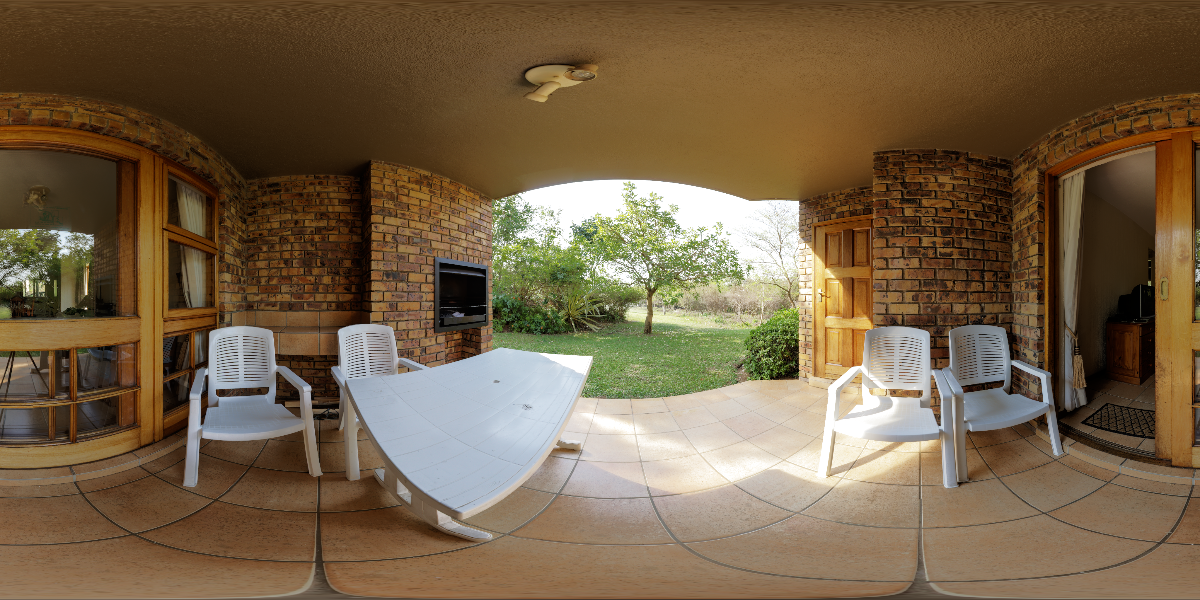
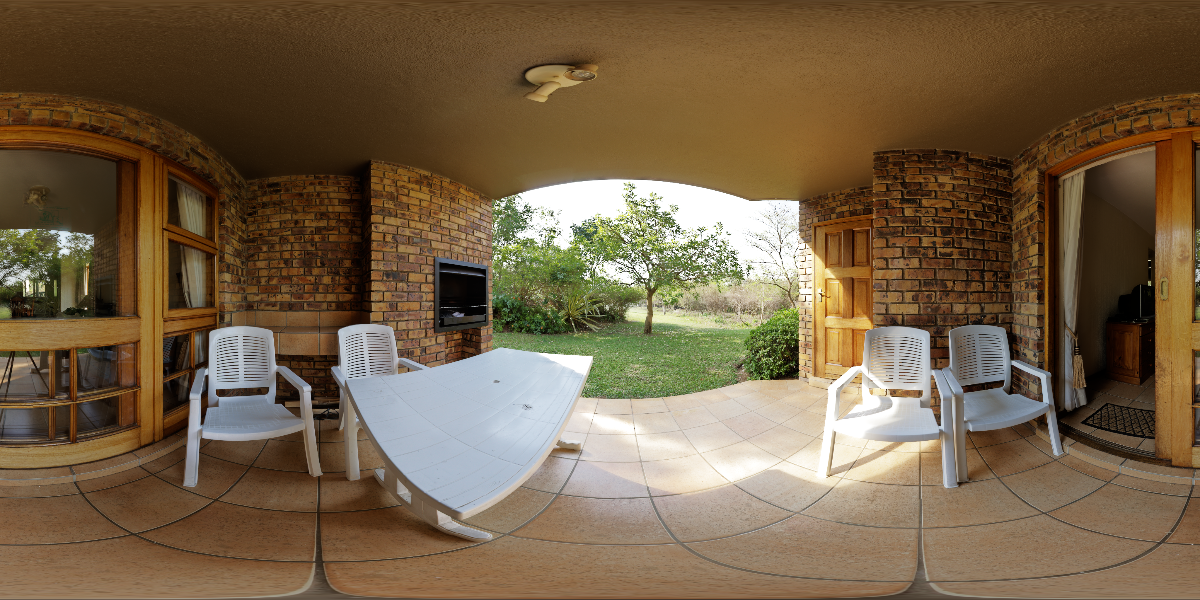
support local regression upsampler.

Changed region(s): [[0.4933, 0.33, 0.6167, 0.48], [0.4317, 0.33, 0.4625, 0.39], [0.6475, 0.42, 0.6783, 0.45]]

diff --git a/tone_mapper.py b/tone_mapper.py
@@ -37,10 +37,13 @@ def create_hdr_texture(device: spy.Device, rgba: np.ndarray) -> spy.Texture:
 
 
 class ToneMapper:
-    def __init__(self, device: spy.Device, max_levels: int = 16):
+    def __init__(self, device: spy.Device, max_levels: int = 16, fusion_scale: int = 4):
         self.device = device
         if max_levels < 1:
             raise ValueError("max_levels must be positive")
+        if fusion_scale not in (1, 4):
+            raise ValueError("fusion_scale must be 1 or 4")
+        self.fusion_scale = fusion_scale
         self.max_levels = max_levels
         self.sampler = device.create_sampler(min_filter=spy.TextureFilteringMode.linear,
                                              mag_filter=spy.TextureFilteringMode.linear,
@@ -57,14 +60,19 @@ class ToneMapper:
         weights = self.device.create_compute_kernel(session.load_program("pyramid.slang", ["setup_weights"]))
         reconstruct = self.device.create_compute_kernel(session.load_program("fusion.slang", ["reconstruct"]))
         convert = self.device.create_compute_kernel(session.load_program("fusion.slang", ["convert_exposure"]))
+        guided_kernels = {name: self.device.create_compute_kernel(session.load_program("guided.slang", [name]))
+                          for name in ("reduce_source", "fit_coefficients", "average_coefficients", "apply_exposure")}
         lut = ToneLut(self.device, session=session)
         self.lut = lut
+        self.guided_kernels = guided_kernels
         self.session, self.kernel = session, kernel
         self.downsample_kernel, self.weight_kernel = downsample, weights
         self.reconstruction_kernel, self.convert_kernel = reconstruct, convert
         self.reconstructed = self.local_exposure = self.final_color = None
         self._result_key = self._weight_key = None
         self.base_color = self.luminance_pyramid = self.weight_pyramid = None
+        self._resource_key = self._reduced_source_key = None
+        self.work_source = self.low_exposure = self.coefficients = self.averaged_coefficients = None
 
     def create_texture(self, width, height, format=spy.Format.rgba32_float, levels=1):
         return self.device.create_texture(
@@ -83,19 +91,41 @@ class ToneMapper:
     def prepare_weights(self, encoder, source, exposure_ev, highlight_ev, shadow_ev, sigma=0.2):
         if not np.isfinite(sigma) or sigma <= 0:
             raise ValueError("Weight sigma must be finite and positive")
-        key = (source, exposure_ev, highlight_ev, shadow_ev, sigma)
+        key = (source, exposure_ev, highlight_ev, shadow_ev, sigma, self.fusion_scale)
         if key == self._weight_key:
             return
-        if self.base_color is None or (self.base_color.width, self.base_color.height) != (source.width, source.height):
-            levels = fusion_mip_count(source.width, source.height, self.max_levels)
+        if self.fusion_scale not in (1, 4):
+            raise ValueError("fusion_scale must be 1 or 4")
+        resource_key = (source.width, source.height, self.fusion_scale)
+        if resource_key != self._resource_key:
+            width = (source.width + self.fusion_scale - 1) // self.fusion_scale
+            height = (source.height + self.fusion_scale - 1) // self.fusion_scale
+            levels = fusion_mip_count(width, height, self.max_levels)
             self.base_color = self.create_texture(source.width, source.height)
-            self.luminance_pyramid = self.create_texture(source.width, source.height, levels=levels)
-            self.weight_pyramid = self.create_texture(source.width, source.height, levels=levels)
+            self.final_color = self.create_texture(source.width, source.height)
+            self.local_exposure = self.create_texture(source.width, source.height, spy.Format.r32_float)
+            self.luminance_pyramid = self.create_texture(width, height, levels=levels)
+            self.weight_pyramid = self.create_texture(width, height, levels=levels)
+            self.reconstructed = self.create_texture(width, height, spy.Format.r32_float, levels=levels)
+            self.low_exposure = self.create_texture(width, height, spy.Format.r32_float)
+            self.coefficients = self.create_texture(width, height, spy.Format.rg32_float)
+            self.averaged_coefficients = self.create_texture(width, height, spy.Format.rg32_float)
+            self.work_source = self.create_texture(width, height) if self.fusion_scale == 4 else source
+            self._resource_key = resource_key
+            self._reduced_source_key = self._result_key = None
+        if self.fusion_scale == 1:
+            self.work_source = source
+        elif self._reduced_source_key != source:
+            self.guided_kernels["reduce_source"].dispatch(
+                thread_count=[self.work_source.width, self.work_source.height, 1],
+                vars={"fullSource": source, "reducedOutput": self.work_source, "linearSampler": self.sampler},
+                command_encoder=encoder)
+            self._reduced_source_key = source
+        work = self.work_source
         self.weight_kernel.dispatch(
-            thread_count=[source.width, source.height, 1],
-            vars={**self.lut.bindings(), "hdrSource": source, "globalEV": exposure_ev,
+            thread_count=[work.width, work.height, 1],
+            vars={**self.lut.bindings(), "hdrSource": work, "globalEV": exposure_ev,
                   "highlightEV": highlight_ev, "shadowEV": shadow_ev,
-                  "baseOutput": self.base_color,
                   "luminanceOutput": self.luminance_pyramid.create_view(mip=0, mip_count=1),
                   "weightOutput": self.weight_pyramid.create_view(mip=0, mip_count=1), "sigma": sigma},
             command_encoder=encoder,
@@ -107,28 +137,39 @@ class ToneMapper:
     def prepare_result(self, encoder, hdr_source, exposure_ev):
         if self._result_key == self._weight_key:
             return
-        if self.reconstructed is None or (self.reconstructed.width, self.reconstructed.height) != (hdr_source.width, hdr_source.height):
-            self.reconstructed = self.create_texture(
-                hdr_source.width, hdr_source.height, spy.Format.r32_float,
-                levels=self.luminance_pyramid.mip_count)
-            self.local_exposure = self.create_texture(hdr_source.width, hdr_source.height, spy.Format.r32_float)
-            self.final_color = self.create_texture(hdr_source.width, hdr_source.height)
+        work = self.work_source
         last = self.reconstructed.mip_count - 1
         for mip in range(last, -1, -1):
             # Bind an independent SRV for the base case (branch doesn't read it).
-            previous = self.local_exposure if mip == last else self.reconstructed.create_view(mip=mip+1, mip_count=1)
+            previous = self.low_exposure if mip == last else self.reconstructed.create_view(mip=mip+1, mip_count=1)
             self.reconstruction_kernel.dispatch(
-                thread_count=[max(1, hdr_source.width >> mip), max(1, hdr_source.height >> mip), 1],
+                thread_count=[max(1, work.width >> mip), max(1, work.height >> mip), 1],
                 vars={"fineLuminance": self.luminance_pyramid.create_view(mip=mip, mip_count=1),
                       "coarseLuminance": self.luminance_pyramid.create_view(mip=min(mip+1, last), mip_count=1),
                       "layerWeights": self.weight_pyramid.create_view(mip=mip, mip_count=1),
                       "previousResult": previous, "linearSampler": self.sampler, "isCoarsest": mip == last,
                       "reconstructionOutput": self.reconstructed.create_view(mip=mip, mip_count=1)},
                 command_encoder=encoder)
-        self.convert_kernel.dispatch(thread_count=[hdr_source.width, hdr_source.height, 1],
-            vars={**self.lut.bindings(), "hdrSource": hdr_source, "fusedLightness": self.reconstructed,
-                  "globalEV": exposure_ev, "exposureOutput": self.local_exposure, "colorOutput": self.final_color},
+        self.convert_kernel.dispatch(thread_count=[work.width, work.height, 1],
+            vars={**self.lut.bindings(), "hdrSource": work, "fusedLightness": self.reconstructed,
+                  "globalEV": exposure_ev, "exposureOutput": self.low_exposure},
             command_encoder=encoder)
+        if self.fusion_scale == 4:
+            self.guided_kernels["fit_coefficients"].dispatch(
+                thread_count=[work.width, work.height, 1],
+                vars={"reducedSource": work, "lowExposure": self.low_exposure,
+                      "coefficientOutput": self.coefficients}, command_encoder=encoder)
+            self.guided_kernels["average_coefficients"].dispatch(
+                thread_count=[work.width, work.height, 1],
+                vars={"coefficients": self.coefficients, "averagedOutput": self.averaged_coefficients},
+                command_encoder=encoder)
+        self.guided_kernels["apply_exposure"].dispatch(
+            thread_count=[hdr_source.width, hdr_source.height, 1],
+            vars={"fullSource": hdr_source, "lowExposure": self.low_exposure,
+                  "averagedCoefficients": self.averaged_coefficients, "linearSampler": self.sampler,
+                  "globalEV": exposure_ev, "guided": self.fusion_scale == 4,
+                  "fullExposureOutput": self.local_exposure,
+                  "baseOutput": self.base_color, "colorOutput": self.final_color}, command_encoder=encoder)
         self._result_key = self._weight_key
 
     def create_output(self, width: int, height: int) -> spy.Texture:

diff --git a/test_guided.py b/test_guided.py
@@ -1,0 +1,110 @@
+"""Quarter-resolution Fusion and fast guided upsampling regression tests."""
+import unittest
+import numpy as np
+import slangpy as spy
+
+from tone_mapper import ToneMapper, create_hdr_texture
+from test_pyramid import sample_bilinear, aces
+
+LUMA = np.array([.2126, .7152, .0722])
+
+
+def box5(image):
+    padded = np.pad(image, ((2,2), (2,2)), mode='edge')
+    h,w = image.shape
+    return sum(padded[y:y+h,x:x+w] for y in range(5) for x in range(5))/25
+
+
+class GuidedTests(unittest.TestCase):
+    @classmethod
+    def setUpClass(cls):
+        cls.device = spy.Device(enable_hot_reload=False)
+        cls.mapper = ToneMapper(cls.device)
+
+    def render(self, rgba, **kwargs):
+        source = create_hdr_texture(self.device, rgba)
+        output = self.mapper.create_output(source.width, source.height)
+        encoder = self.device.create_command_encoder()
+        self.mapper.execute(encoder, source, output, 0, **kwargs)
+        self.device.submit_command_buffer(encoder.finish())
+        return source
+
+    def test_odd_tiny_sizes_zero_adjustment_and_switching(self):
+        rng = np.random.default_rng(23)
+        self.assertEqual(self.mapper.fusion_scale, 4)
+        for h,w in [(17,31), (1,9), (1,1)]:
+            rgba = rng.random((h,w,4), dtype=np.float32)*2
+            rgba[0,0,:3] = 0
+            self.render(rgba, highlight_ev=0, shadow_ev=0)
+            self.assertEqual((self.mapper.work_source.width, self.mapper.work_source.height), ((w+3)//4,(h+3)//4))
+            self.assertEqual(self.mapper.local_exposure.to_numpy().shape, (h,w))
+            np.testing.assert_allclose(self.mapper.local_exposure.to_numpy(), 1, atol=2e-6)
+            np.testing.assert_allclose(self.mapper.final_color.to_numpy()[...,:3], aces(rgba[...,:3]), atol=2e-6)
+        rgba = rng.random((16,32,4), dtype=np.float32)
+        for scale in [1,4,1,4]:
+            self.mapper.fusion_scale = scale
+            self.render(rgba, highlight_ev=0, shadow_ev=0)
+            self.assertEqual(self.mapper.work_source.width, 32//scale)
+            np.testing.assert_allclose(self.mapper.local_exposure.to_numpy(), 1, atol=2e-6)
+
+    def test_reduction_and_guided_coefficients_match_cpu(self):
+        rng = np.random.default_rng(19)
+        rgba = np.exp2(rng.uniform(-6,2,(32,48,4))).astype(np.float32)
+        self.render(rgba)
+        low = self.mapper.work_source.to_numpy()
+        expected_rgb = rgba[...,:3].reshape(8,4,12,4,3).mean(axis=(1,3))
+        full_guide = np.log2(np.maximum(rgba[...,:3]@LUMA,1e-6))
+        expected_guide = full_guide.reshape(8,4,12,4).mean(axis=(1,3))
+        np.testing.assert_allclose(low[...,:3], expected_rgb, atol=2e-6)
+        np.testing.assert_allclose(low[...,3], expected_guide, atol=2e-6)
+        g = low[...,3].astype(float)
+        e = np.log2(self.mapper.low_exposure.to_numpy().astype(float))
+        mean_g, mean_e = box5(g), box5(e)
+        a = (box5(g*e)-mean_g*mean_e)/(np.maximum(box5(g*g)-mean_g**2,0)+.04)
+        b = mean_e-a*mean_g
+        np.testing.assert_allclose(self.mapper.coefficients.to_numpy(), np.stack([a,b],axis=-1), atol=1e-5)
+        expected_ab = np.stack([box5(a),box5(b)],axis=-1)
+        np.testing.assert_allclose(self.mapper.averaged_coefficients.to_numpy(), expected_ab, atol=1e-5)
+        yy,xx = np.mgrid[:32,:48]
+        ab = sample_bilinear(expected_ab,(xx+.5)/48,(yy+.5)/32)
+        expected_ev = np.clip(ab[...,0]*full_guide+ab[...,1],-12,12)
+        actual_multiplier = self.mapper.local_exposure.to_numpy()
+        np.testing.assert_allclose(np.log2(actual_multiplier), expected_ev, atol=.003)
+        np.testing.assert_allclose(self.mapper.final_color.to_numpy()[...,:3],
+                                   aces(rgba[...,:3]*actual_multiplier[...,None]), atol=2e-6)
+
+    def test_guidance_reduces_exposure_bleed_across_step(self):
+        # Prescribe an exposure field to isolate upsampling from Fusion itself.
+        m = self.mapper
+        h,w = 32,64
+        rgba = np.ones((h,w,4),np.float32)
+        rgba[:,:w//2,:3] = 2**-4
+        rgba[:,w//2:,:3] = 2**4
+        source = self.render(rgba)
+        ev = np.ones((h//4,w//4),np.float32)
+        ev[:,w//8:] = -1
+        low_exp = self.device.create_texture(width=w//4,height=h//4,format=spy.Format.r32_float,
+            usage=spy.TextureUsage.shader_resource, data=np.exp2(ev))
+        encoder = self.device.create_command_encoder()
+        m.guided_kernels['fit_coefficients'].dispatch(thread_count=[w//4,h//4,1],
+            vars={'reducedSource':m.work_source,'lowExposure':low_exp,'coefficientOutput':m.coefficients},command_encoder=encoder)
+        m.guided_kernels['average_coefficients'].dispatch(thread_count=[w//4,h//4,1],
+            vars={'coefficients':m.coefficients,'averagedOutput':m.averaged_coefficients},command_encoder=encoder)
+        m.guided_kernels['apply_exposure'].dispatch(thread_count=[w,h,1],
+            vars={'fullSource':source,'lowExposure':low_exp,'averagedCoefficients':m.averaged_coefficients,
+                  'linearSampler':m.sampler,'globalEV':0.,'guided':True,
+                  'fullExposureOutput':m.local_exposure,'baseOutput':m.base_color,'colorOutput':m.final_color},command_encoder=encoder)
+        self.device.submit_command_buffer(encoder.finish())
+        actual = np.log2(m.local_exposure.to_numpy())
+        yy,xx = np.mgrid[:h,:w]
+        plain = sample_bilinear(ev[...,None],(xx+.5)/w,(yy+.5)/h)[...,0]
+        target = np.ones((h,w));target[:,w//2:] = -1
+        band = np.s_[:,w//2-2:w//2+2]
+        guided_error = np.abs(actual-target)[band].mean()
+        plain_error = np.abs(plain-target)[band].mean()
+        self.assertLess(guided_error,.15)
+        self.assertLess(guided_error,plain_error*.3)
+
+
+if __name__ == '__main__':
+    unittest.main()

diff --git a/main.py b/main.py
@@ -27,7 +27,7 @@ class Viewer:
     def __init__(self, args):
         self.args = args
         self.device = spy.Device(type=getattr(spy.DeviceType, args.device), enable_hot_reload=False)
-        self.mapper = ToneMapper(self.device, args.levels)
+        self.mapper = ToneMapper(self.device, args.levels, args.fusion_scale)
         self.assets = sorted((ROOT / "Assets").glob("*.exr"))
         if args.image not in self.assets:
             self.assets.insert(0, args.image)
@@ -62,11 +62,14 @@ class Viewer:
         self.surface.configure(width=self.window.width, height=self.window.height,
                                format=spy.Format.rgba8_unorm, vsync=True)
         self.ui = spy.ui.Context(self.device)
-        panel = spy.ui.Window(self.ui.screen, "Local Exposure", spy.float2(12, 12), spy.float2(480, 385))
+        panel = spy.ui.Window(self.ui.screen, "Local Exposure", spy.float2(12, 12), spy.float2(480, 420))
         self.label = spy.ui.Text(panel, self.assets[self.index].name)
         spy.ui.ComboBox(panel, "View", items=VIEW_LABELS,
                         value=self.view_mode, callback=self.set_view)
         self.view_help = spy.ui.Text(panel, VIEW_HELP[self.view_mode])
+        spy.ui.ComboBox(panel, "Fusion resolution", items=["1/4 x 1/4 (guided)", "Full resolution reference"],
+                        value=0 if self.mapper.fusion_scale == 4 else 1,
+                        callback=lambda value: setattr(self.mapper, "fusion_scale", 4 if value == 0 else 1))
         self.slider = spy.ui.SliderFloat(panel, "Exposure (EV)", min=-16, max=16,
                                         value=self.exposure, callback=self.set_exposure)
         spy.ui.SliderFloat(panel, "Highlight Contrast Scale", min=0, max=1,
@@ -195,6 +198,8 @@ def parse_args(argv=None):
     parser.add_argument("--image", type=Path, default=ROOT / "Assets" / "veranda_4k.exr")
     parser.add_argument("--exposure", type=float, default=0.0, help="Exposure compensation in EV")
     parser.add_argument("--view", choices=VIEW_NAMES, default="fusion")
+    parser.add_argument("--fusion-scale", type=int, choices=[1, 4], default=4,
+                        help="Fusion resolution divisor per axis: 4 guided (default), 1 full reference")
     parser.add_argument("--sigma", type=float, default=0.2, help="UE exp2 weight width (0.02 to 0.8; default 0.2)")
     parser.add_argument("--levels", type=int, default=16, help="Maximum fusion levels, capped by shorter side (UE default: 16)")
     highlight_group = parser.add_mutually_exclusive_group()

diff --git a/test_pyramid.py b/test_pyramid.py
@@ -51,7 +51,7 @@ class PyramidTests(unittest.TestCase):
         self.assertEqual(fusion_mip_count(131072, 131072), 16)
         self.assertEqual(fusion_mip_count(4096, 2048, 6), 6)
         self.assertEqual(fusion_mip_count(1, 8), 1)
-        mapper = ToneMapper(self.device, max_levels=1)
+        mapper = ToneMapper(self.device, max_levels=1, fusion_scale=1)
         rgba = np.ones((4, 8, 4), np.float32) * .18
         source = create_hdr_texture(self.device, rgba)
         output = mapper.create_output(8, 4)
@@ -66,7 +66,7 @@ class PyramidTests(unittest.TestCase):
     @classmethod
     def setUpClass(cls):
         cls.device = spy.Device(enable_hot_reload=False)
-        cls.mapper = ToneMapper(cls.device)
+        cls.mapper = ToneMapper(cls.device, fusion_scale=1)
 
     def test_weights_normalization_preference_and_filter_order(self):
         rgba = np.ones((8, 8, 4), np.float32)

diff --git a/README.md b/README.md
@@ -38,7 +38,8 @@ The View menu offers **Fusion Result / Original Comparison / Local Exposure EV**
 | `--exposure` | 0 | Global exposure in EV |
 | `--highlight-contrast` / `--shadow-contrast` | 0.8 / 0.8 | Each exposure offset has magnitude `6 × (1 − Scale)` EV; 1 means no offset |
 | `--sigma` | 0.2 | Exposure weight width; smaller values make exposure selection more selective |
-| `--levels` | 16 | Maximum pyramid levels, capped by the shorter image dimension |
+| `--levels` | 16 | Maximum pyramid levels, capped by the shorter working-image dimension |
+| `--fusion-scale` | 4 | Resolution divisor per axis: 4 for guided quarter resolution, 1 for full reference |
 
 ## Implementation
 
@@ -49,6 +50,18 @@ The View menu offers **Fusion Result / Original Comparison / Local Exposure EV**
 ```powershell
 .\.venv\Scripts\python.exe test_pyramid.py          # Numerical regression tests
 .\.venv\Scripts\python.exe docs/render_examples.py  # Regenerate README comparisons
+```
+
+## Quarter-Resolution Fusion
+
+By default, Fusion and the 10-step exposure search run at **1/4 width x 1/4 height** (1/16 as many pixels). A 4096x2048 input uses a 1024x512 working image. The UI's **Fusion resolution** selector switches between the guided version and the full-resolution reference; `--fusion-scale 1` selects the reference from the command line.
+
+`shaders/guided.slang` downsamples linear HDR and log-luminance guidance separately, fits local `EV = a * guide + b` models in 5x5 low-resolution windows, averages the coefficients, and evaluates them with full-resolution guidance. Regularization is 0.04 EV squared, and the resulting local EV is limited to [-12, 12]. Only exposure application and the real tone mapper run at full resolution.
+
+This is an approximation: averaging HDR before nonlinear tone mapping and omitting the finest Fusion bands can change fine detail and strong highlights. Guided upsampling reduces edge bleed but cannot recover information already lost during reduction. The lower working pixel count is not a measured 16x frame-time speedup; full-resolution output and guided-filter passes still have a cost.
+
+```powershell
+.\.venv\Scripts\python.exe -m unittest test_guided test_lut test_pyramid
 ```
 
 ## Log-Input 3D LUT Proxy
